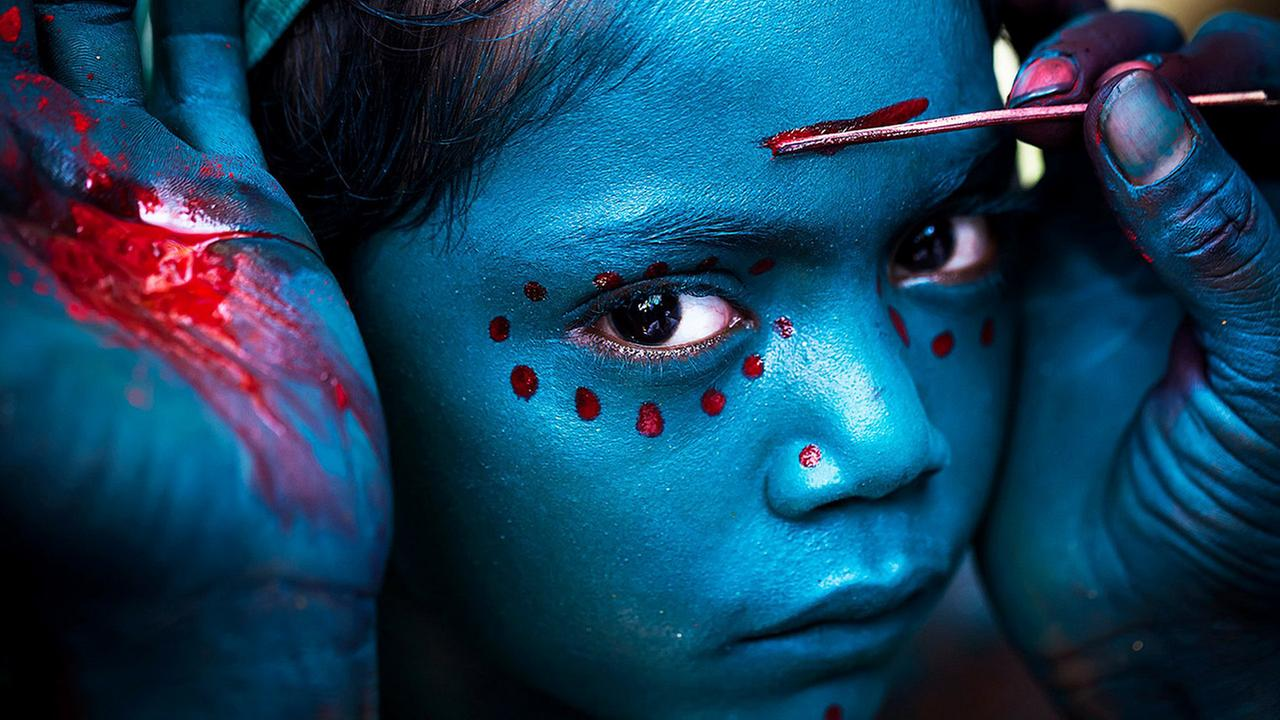
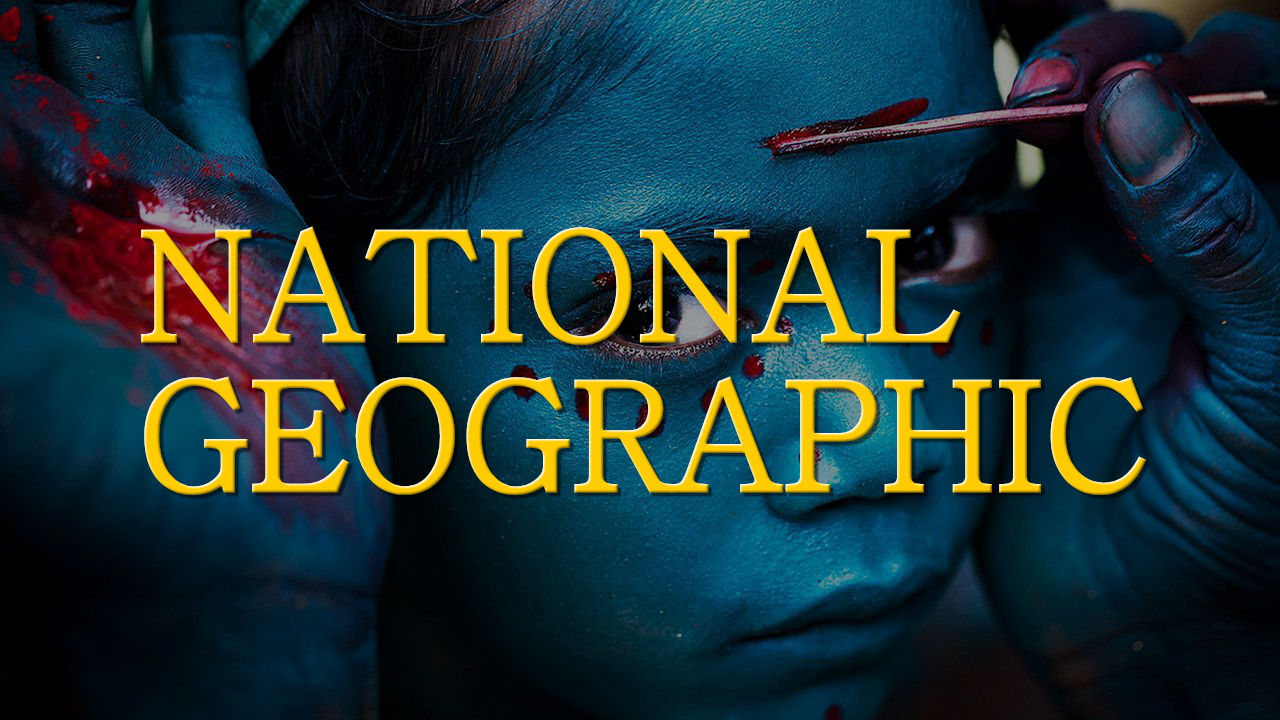
added Nat Geo

diff --git a/index.html b/index.html
@@ -28,9 +28,9 @@
           <div class="row justify-content-center align-items-center h-60">
             <div class="col-12">
               <h1 class="my-5">
-                <span>Hi, I'm Michael. I design & build</span>
+                <span>Hi, I'm Michael. I build</span>
                 <br>
-                <span id="test"></span>
+                <span id="typing"></span>
               </h1>
               <h1 class="my-5">
                 <a href="#hire"><button type="button" class="button_one">Yes, I'm available for hire</button></a>
@@ -56,21 +56,21 @@
         <p class="lead text-muted mb-5">I've got the passion to learn them all, but for now...</p>
         <div class="row">
           <div class="col-md-4">
-              <i class="fab fa-sass expertise-icon"></i>
-            <h4>Sass</h4>
-            <p>I like to make ample use of CSS preprocessors. Sass allows me to make beautiful and dynamic objects that take a bland interface and makes it aesthetically pleasing.</p>
+              <i class="fas fa-code expertise-icon"></i>
+            <h4>Front-end</h4>
+            <p>I like to make ample use of CSS preprocessors and JavaScript frameworks like Sass and React. They allow me to make dynamic objects and transform a bland interface to an aesthetically pleasing one.</p>
           </div>
 
           <div class="col-md-4">
-            <i class="fab fa-react expertise-icon"></i>
-            <h4>React/Redux</h4>
-            <p>I don't have enough good words to describe modern JS libraries. The virtual DOM makes interfaces lightening fast. I use React and Redux to organize modular components in a neat state management system.</p>
+            <i class="fas fa-database expertise-icon"></i>
+            <h4>Back-end</h4>
+            <p>I use Rails APIs for their simplicity and ease of use. If it only needs to store and serve data, a service-oriented architecture is the way to go. When it’s ready I like Heroku and AWS for easy and scalable deployment.</p>
           </div>
 
           <div class="col-md-4">
-            <i class="fab fa-aws expertise-icon"></i>
-            <h4>Rails API</h4>
-            <p>For a backend I use a Rails API for its simplicity. If it only needs to store and serve data, a service-oriented architecture is the way to go. When it’s ready I like Heroku and AWS for deployment.</p>
+            <i class="fas fa-terminal expertise-icon"></i>
+            <h4>Testing</h4>
+            <p>TDD is an ever increasingly used approach. I use various testing libraries including Jest, RSpec, Capybara, and Selenium. Writing tests first ensures outputs are expected and changes don't create more bugs.</p>
           </div>
         </div>
       </div>
@@ -98,8 +98,7 @@
               <a target="_blank" href="https://www.michaelpalhidai.com/hexon/"><button type="button" class="button_three">Visit website</button></a>
             </div>
           </div>
-        </div><!-- /.row -->
-
+        </div>
         <!-- <div class="row justify-content-center">
           <div class="col-md-10 border-top border-bottom py-5 mx-5">
             <blockquote>“Our client loved Michael's eye for design and perfection. Michael knows how to listen and build exactly what clients are thinking!”</blockquote>
@@ -195,11 +194,11 @@
           </div>
           <div class="col-md-4">
             <div class="mb-4 box-shadow">
-              <a href="https://www.youtube.com/playlist?list=PL1s5CD4ucTE52ukPWK4lcD1WAybK4Ie2g" target="_blank">
-                <img class="card-img-top" src="assets/images/100DoC.png" alt="Card image">
+              <a href="https://www.michaelpalhidai.com/National-Geographic/" target="_blank">
+                <img class="card-img-top" src="assets/images/natgeo.jpg" alt="Card image">
               </a>
               <div class="card-body">
-                <p class="card-text">I have committed myself to a lifelong pursuit of learning. I will commit to GitHub and post a video to my YouTube channel as much as possible.</p>
+                <p class="card-text">This page is an implementation of a concept design for National Geographic. I built it to master the Bootstrap framework and grid system.</p>
               </div>
             </div>
           </div>

diff --git a/assets/scripts/type.js b/assets/scripts/type.js
@@ -1,5 +1,5 @@
-var element = document.querySelector('#test');
-var words = ['web applications.','user interfaces.','landing pages.','business websites.'];
+var element = document.querySelector('#typing');
+var words = ['complex web applications.','fast and reliable APIs.','business websites.'];
 
 function type(words, index){
     index = index ? index : 0;
